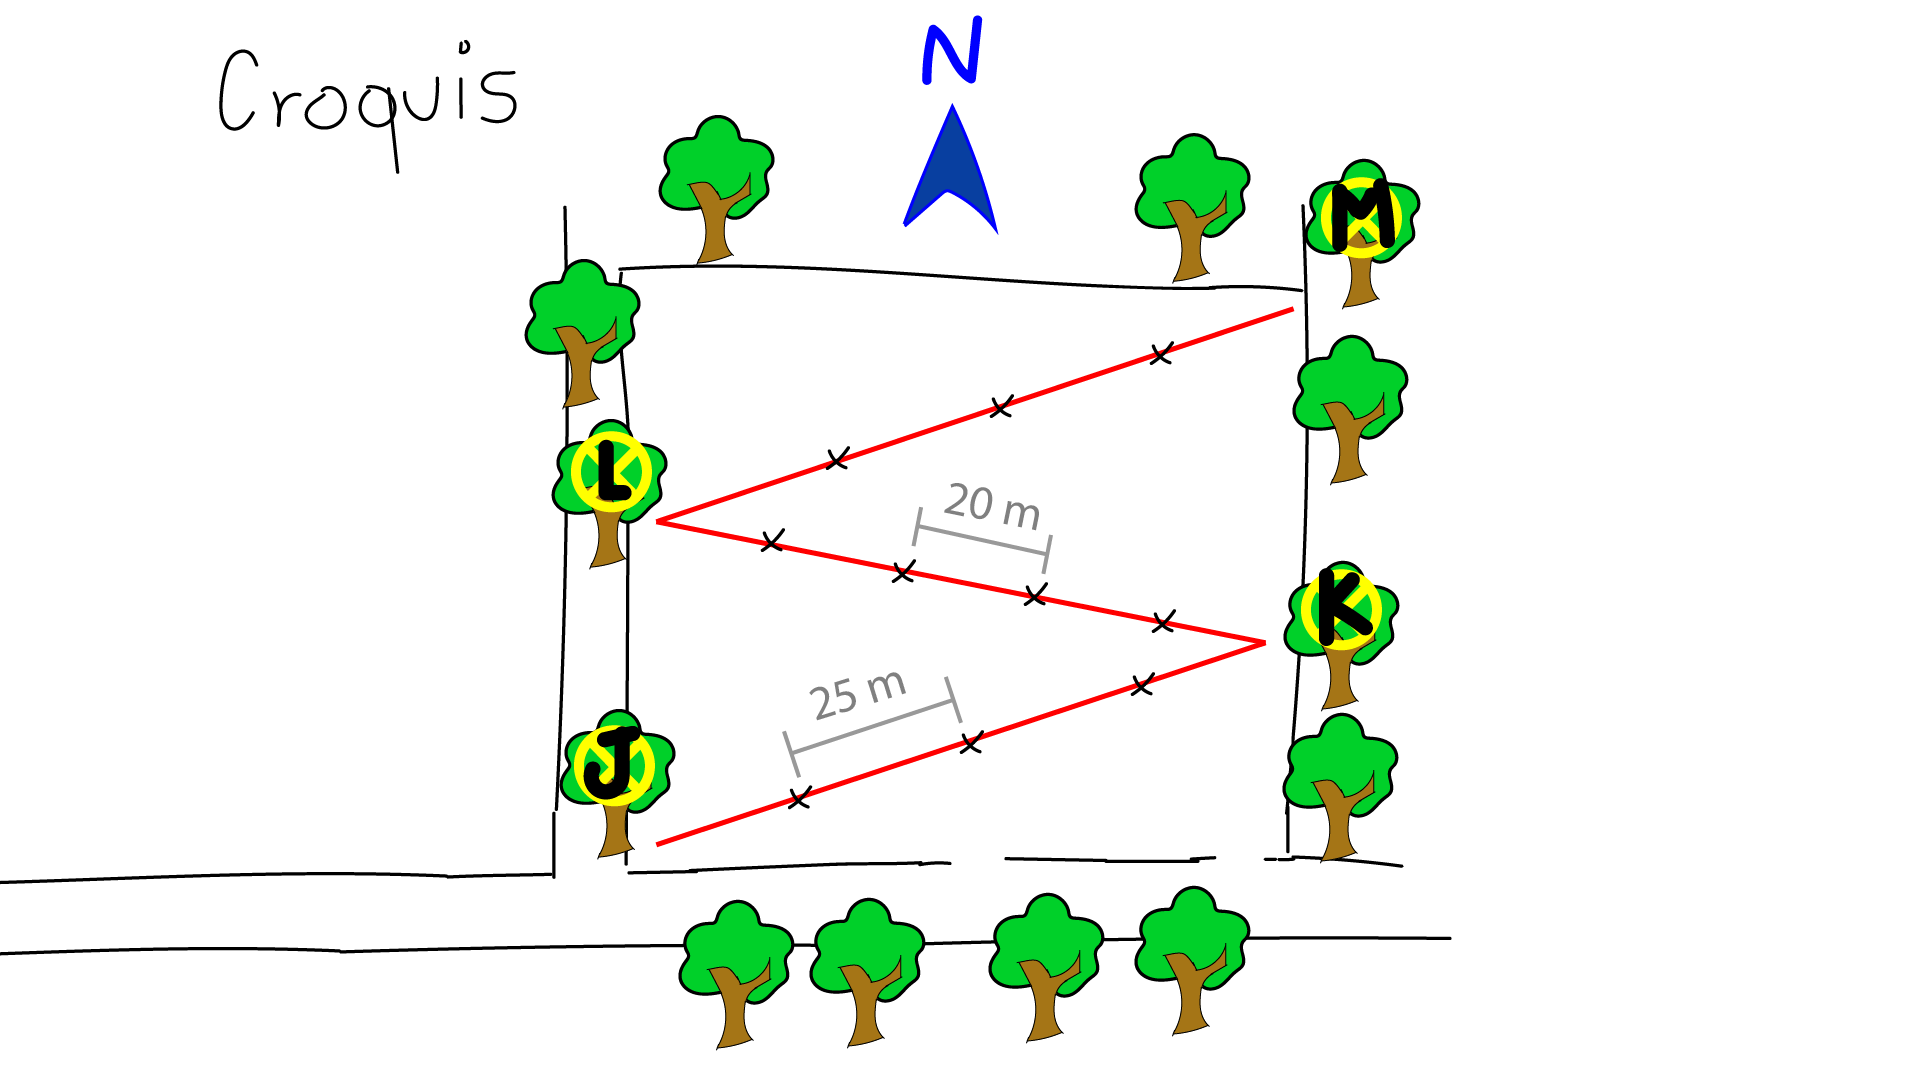
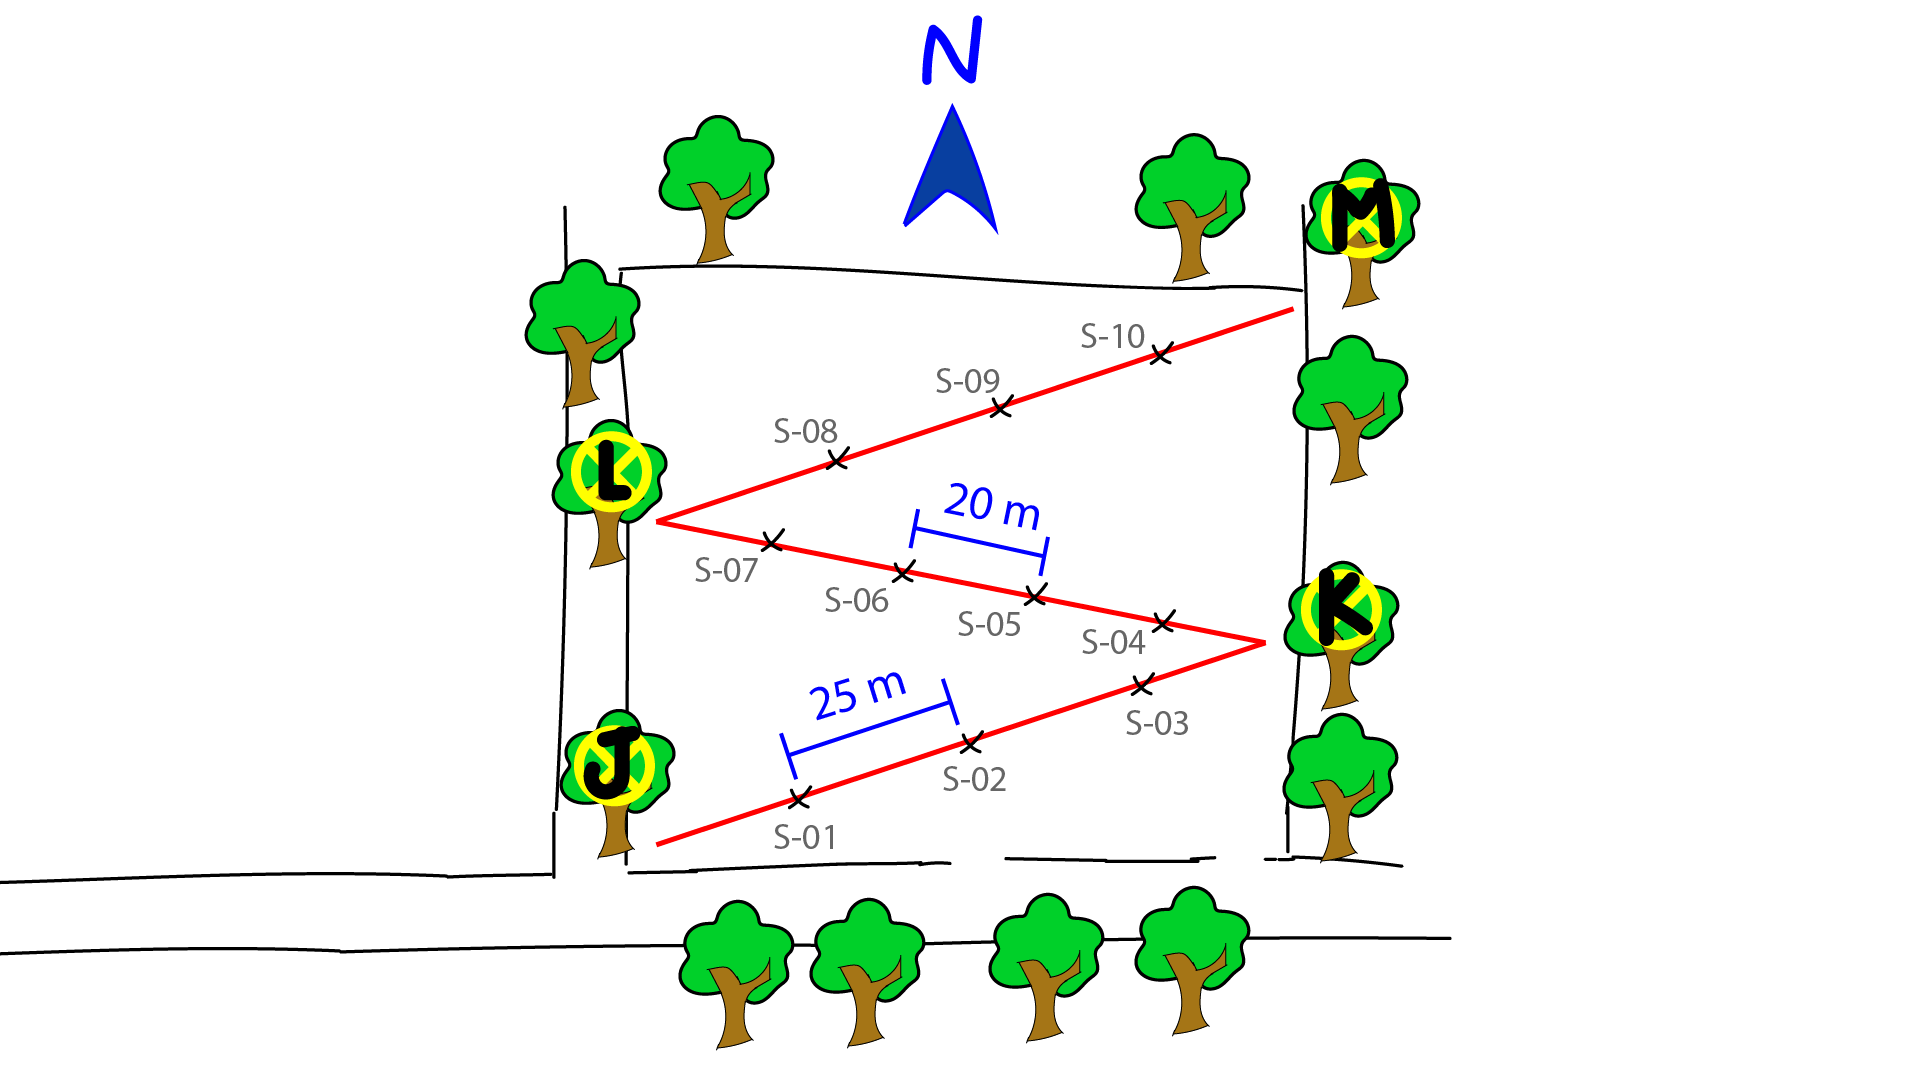
Add files via upload

diff --git a/docs/index.html b/docs/index.html
@@ -102,6 +102,9 @@
             <li>
                 <a href="#2 sub 2">2.2. Extracción de submuestras</a>
             </li>
+            <li>
+                <a href="#2 sub 3">2.3. Preparación de la muestra compuesta</a>
+            </li>
 
             <li>
                 <a href="#3 cap"><text style="color:white;font-weight:bold;">3. EL SUELO: FORMACIÓN Y PERFIL</text></a>
@@ -575,7 +578,9 @@
                 <img src="vertex_matrix.png"
                 class="center" style="width:70%">
                     <figcaption style="font-family:courier;font-size:18px;text-align:center;" >Fig 17.
-                        Para las operaciones solo se usarán las cifras marcadas en color verde.</figcaption>
+                        Para las operaciones solo se usarán las cifras marcadas en color verde habiendo
+                        eliminando (de izquierda a derecha) aquellos números que se repiten
+                        en cada uno de los puntos.</figcaption>
                 </figure>
                 <br>
                 <br>
@@ -654,9 +659,9 @@
                 características generales del suelo del terreno completo. Debe evitarse que las muestras
                 sean orientadas a zonas
                 "preferidas" por la persona que realiza el muestreo. Esto quiere decir que las
-                muestras deben ser distribuidas de manera aleatoria evitando así cualquier tipo de
-                sesgo. Para fines de este muestreo se seguirán los pasos que señala la
-                Norma Oficial Mexicana 021 de SEMARNAT emitida en el año 2000 (NOM-021-SEMARNAT-2000).
+                muestras deben ser distribuidas de manera aleatoria (al azar). Se tomará como referencia
+                metodológica la Norma Oficial Mexicana 021 de SEMARNAT emitida en el año 2000 (NOM-021-SEMARNAT-2000),
+                pero agregando algunos pasos que proponemos gracias a la aparición de nuevas tecnologías.
                 <br>
                 <br>
                 Para distribuir los sitios de muestreo será necesario elaborar un croquis del terreno,
@@ -705,8 +710,8 @@
                 n: número de muestras asignadas al segmento p-q.
                 <br>
                 <br>
-                Digamos que el segmento J-K mide 100 metros, en ese segmento tenemos que distribuir tres sitios,
-                utilizando la fórmula tenemos que:
+                Digamos que el segmento J-K mide 100 metros, en ese segmento debemos distribuir tres sitios,
+                utilizando la fórmula tenemos entonces que:
                 <br>
                 <br>
                 d<sub style="font-size:11px">j-k</sub> = 100 / (3 + 1)<br>
@@ -714,10 +719,11 @@
                 d<sub style="font-size:11px">j-k</sub> = 25
                 <br>
                 <br>
-                Tenemos entonces que los sitios de muestreo a lo largo del segmento J-K se marcarán
+                Los sitios de muestreo a lo largo del segmento J-K se marcarán
                 cada 25 metros. Si el segmento K-L midiera también 100 metros, entonces
-                los 4 sitios de muestreo se marcarían cada 20 m a lo largo del segmento
-                 (Figura 13), comprueba este último resultado utilizando la fórmula.
+                los 4 sitios de muestreo se marcarían cada 20 m a lo largo del segmento,
+                comprueba este último resultado utilizando la fórmula. A cada sitio de muestreo
+                se le asigna una clave de identificación como se muestra en la Figura 13.
                 <br>
                 <br>
                 <figure>
@@ -727,26 +733,79 @@
                         a lo largo de los tres segmentos de zig-zag.</figcaption>
                 </figure>
                 <br>
-                <br>
 
 
 
                 <h3 id="2 sub 2">
                     <br>
                     <br>2.2. Extracción de submuestras</h3>
-                En cada sitio de muestreo obtendremos una <b>submuestra</b>, en total tendremos 10
-                submuestras que posteriormente aprenderemos como mezclarlas para finalmente
+
+                En cada sitio de muestreo obtendremos una <b style="color:#FD628C">submuestra</b>, siguiendo con nuestro
+                ejemplo, tendremos un total de 10
+                submuestras que posteriormente servirán para
                 obtener una <b style="color:#FD628C">muestra compuesta</b> que es la que será enviada a
-                laboratorio para el análisis de fertilidad. Para extraer las submuestra haremos
-                una excavación de 40 x 40 x 40 cm como se muestra en la Figura 14.
+                laboratorio para el análisis de fertilidad.
+                <br>
+                <br>
+                <figure>
+                <img src="sub_rev.png"
+                class="center" style="width:70%">
+                    <figcaption style="font-family:courier;font-size:18px;text-align:center;" >Fig 14. Las submuestras serán posteriormente
+                        mezcladas para obtener una muestra compuesta.</figcaption>
+                </figure>
+               <br>
+
+                Para esta actividad se necesitan algunas herramientas como azadón, pala recta,
+                pico, bolsas y etiquetas adhesivas. Primero se limpia la zona de extracción
+                en una superficie de 50 x 50 cm eliminando arvenses con ayuda de un azadón.
+                En caso de que el suelo esté muy duro será necesario aflojarlo con un pico, de
+                no ser así, se puede hacer la excavación directamente con la pala recta.
+                Para extraer las submuestra haremos
+                una excavación de 40 x 40 x 40 cm con una ligera inclinación en las caras laterales,
+                posteriormente con una pala se extrae una rebanada de suelo de la cual se eliminarán 3
+                centímetros de la parte superior y 3 centímetros hacia los lados como se muestra en la Figura 15.
                 <br>
                 <br>
                 <figure>
                 <img src="hoyo.png"
                 class="center" style="width:70%">
-                    <figcaption style="font-family:courier;font-size:18px;text-align:center;" >Fig 14. Excavación para obtener una submuestra.</figcaption>
+                    <figcaption style="font-family:courier;font-size:18px;text-align:center;" >Fig 15. Excavación para obtener una submuestra.</figcaption>
                 </figure>
-            
+                <br>
+                <br>
+                La porción restante será nuestra submuestra, misma que depositaremos en una bolsa de
+                plático. Por último, se deberá agregar una etiqueta en la bolsa que llevará
+                los siguientes datos:
+                <br>
+                <br>
+                1. Nombre de identificación de la parcela o  lugar de extracción.<br>
+                2. Clave de Identificación de submuestra.<br>
+                3. Fecha de extracción.<br>
+                4. Observaciones.
+                <br>
+                <br>
+                <h3 id="2 sub 3">
+                    <br>
+                    <br>2.3. Preparación de la muestra compuesta</h3>
+                Posteriormente todas las submuestras son vaciadas de sus bolsas en un solo
+                sitio, de preferencia sobre una superficie lisa como una lona o un firme. Con
+                una pala se mezcla todo el material y después se extiende en una forma circular,
+                dicho circulo se divide en cuatro partes y se seleccionan solo dos partes
+                opuestas de la partición y el resto se elimina. El resto de material se
+                revuelve una vez más y se extiende nuevamente para dividirlo en cuatro
+                partes y seleccionar nuevamente las dos partes opuestas y eliminar el
+                resto. Este procedimiento se repite hasta obtener una <b style="color:#FD628C">
+                muestra compuesta</b> de aproximadamente 1 kg. Este material se deposita en una bolsa
+                de plástico y se etiqueta con la siguiente información:
+                <br>
+                <br>
+                1. Nombre del interesado.<br>
+                2. Nombre del lugar de donde procede la muestra.<br>
+                3. Cultivo que se pretende sembrar.<br>
+                4. Profundidad a la que se extrajo la muestra.<br>
+                5. Fecha de extracción.<br>
+                6. Observaciones.
+                <br>
 
                 <h3 id="3 cap">
                     <br>
